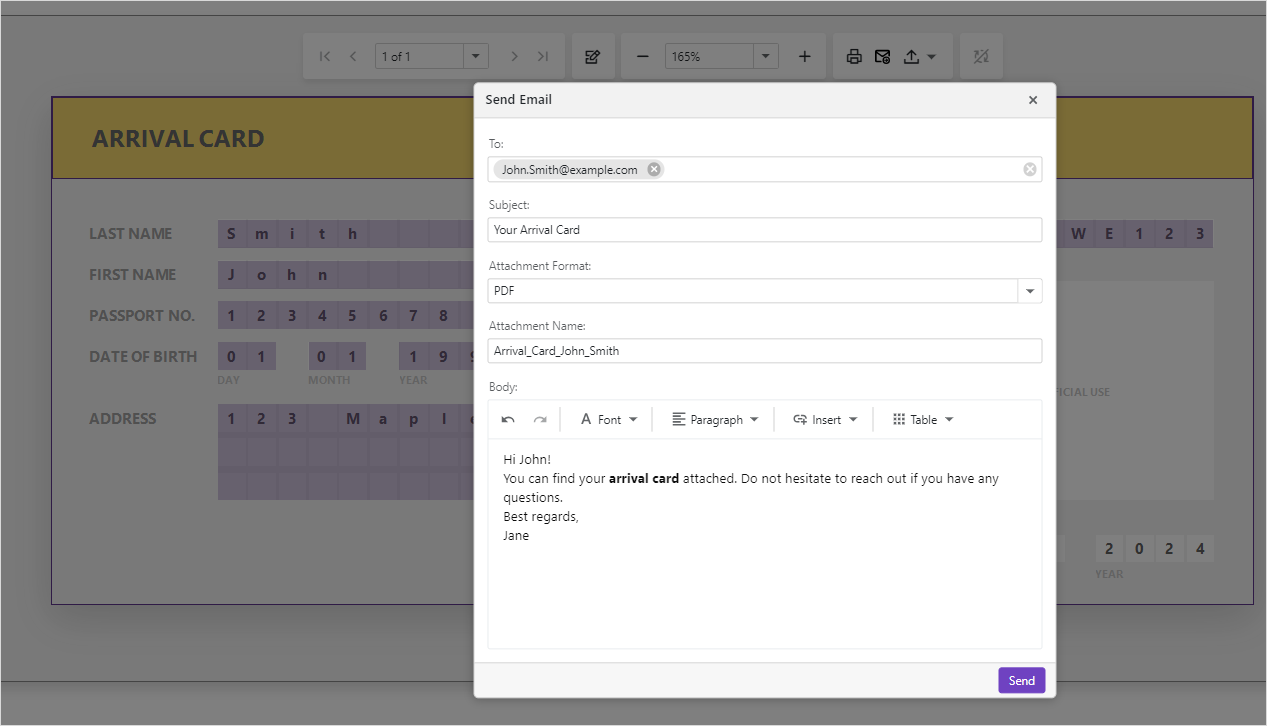
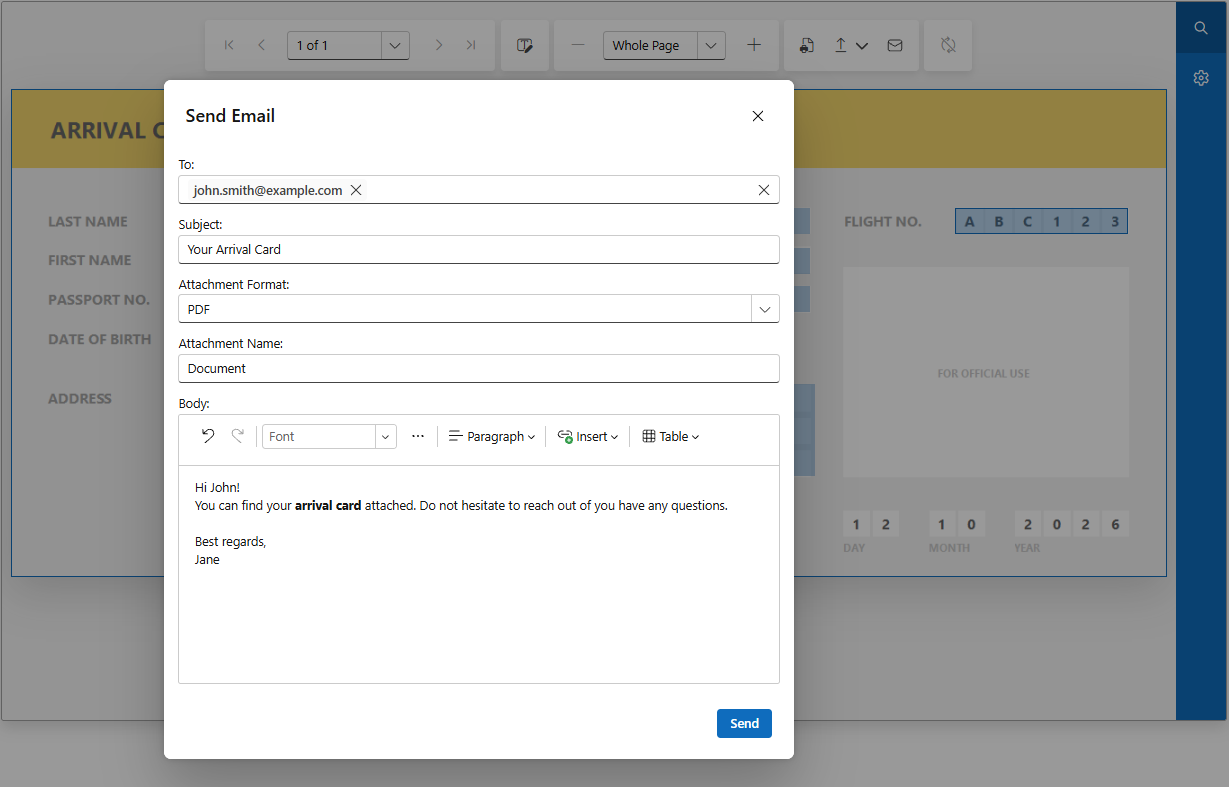
update example

diff --git a/BlazorReportViewer/wwwroot/css/site.css b/BlazorReportViewer/wwwroot/css/site.css
@@ -1,4 +1,4 @@
-@import url('open-iconic/font/css/open-iconic-bootstrap.min.css');
+@import url('open.iconic/font/css/open-iconic-bootstrap.min.css');
 
 html, body {
     font-family: 'Helvetica Neue', Helvetica, Arial, sans-serif;
@@ -43,9 +43,4 @@ article {
     position: absolute;
     right: 0.75rem;
     top: 0.5rem;
-}
-
-
-.mail-icon {
-    background-image: url(../images/by-email.svg);
 }

diff --git a/README.md b/README.md
@@ -25,7 +25,9 @@ The example handles the [`CustomizeToolbar`](https://docs.devexpress.com/XtraRep
 ```cs
 void OnCustomizeToolbar(ToolbarModel toolbarModel) {
     toolbarModel.AllItems.Insert(toolbarModel.AllItems.FindIndex(i => i.Id == ToolbarItemId.ExportTo), new ToolbarItem() {
-        IconCssClass = "mail-icon",
+        // Icons from the DevExpress Icon Library require the DevExpress.Images.Blazor NuGet package
+        // and the @using DevExpress.Images.Blazor directive (registered in _Imports.razor).
+        IconUrl = Icons.Mail,
         Text = "Send Email",
         AdaptiveText = "Send Email",
         AdaptivePriority = 1,
